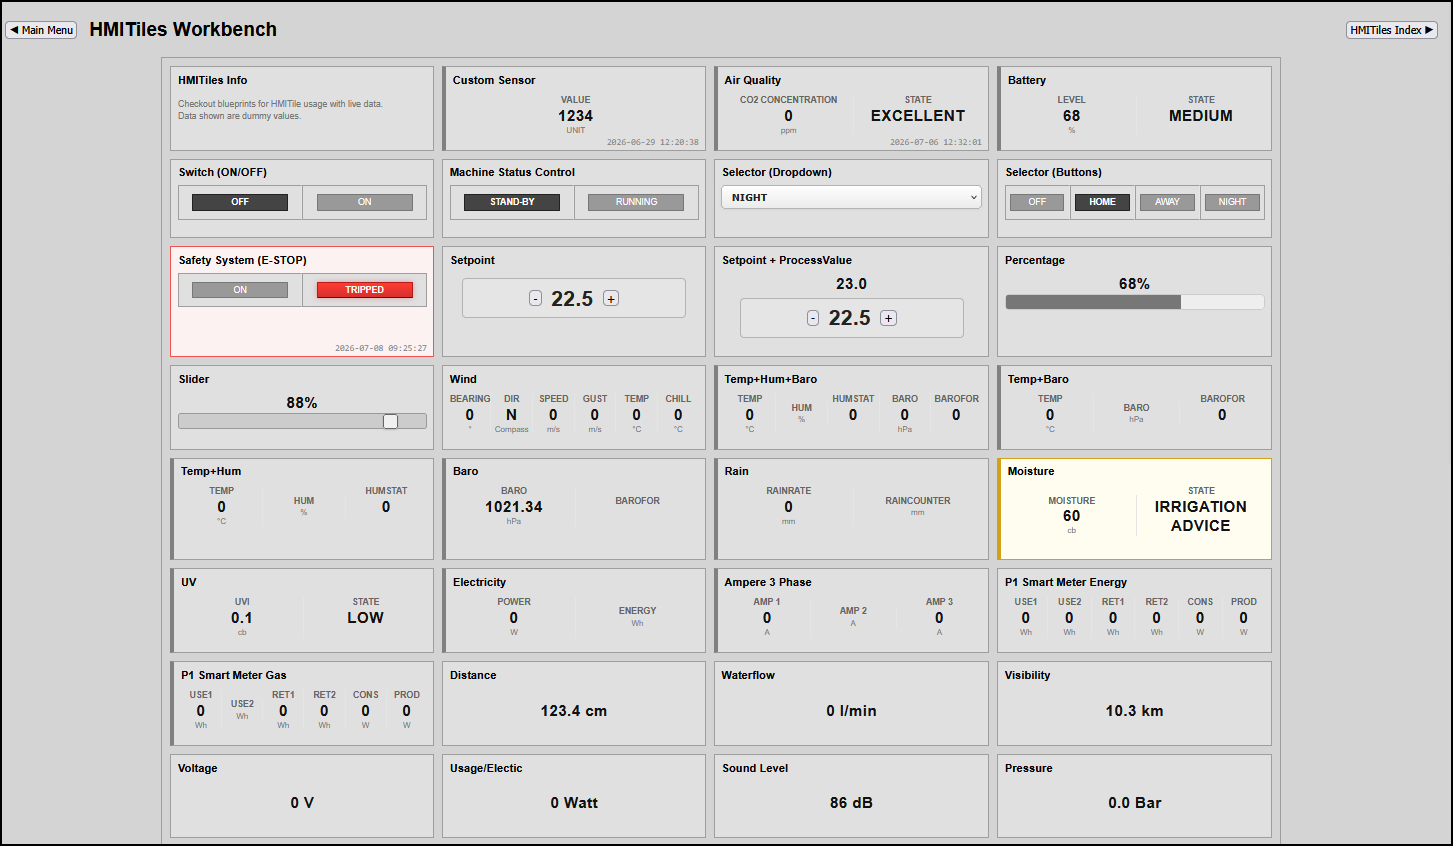
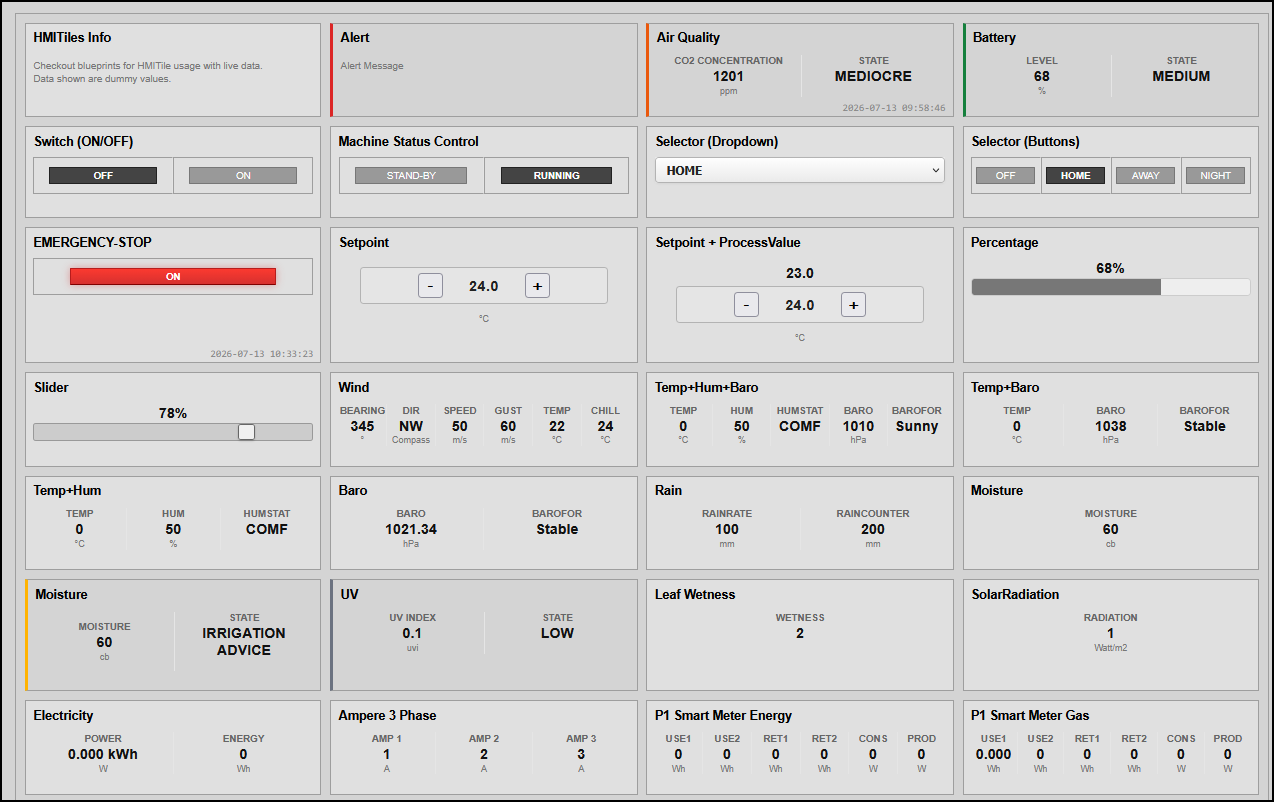
Update

diff --git a/CHANGELOG.md b/CHANGELOG.md
@@ -4,7 +4,7 @@ All notable changes to **HMITiles Custom Pages Framework for Domoticz** - are do
 
 ---
 
-## 20260708 - (2.0.0-BETA)
+## 20260713 - (2.0.0-BETA)
 Major framework rewrite. Work in progress. Pre-release staging phase.
 
 ### Summary
@@ -27,8 +27,8 @@ This release eliminates inline script blocks from layout files, centralizes even
 * **Local Offline Fonts**: Integrated a crisp, high-contrast, squared typography layer using locally-hosted assets. The entire UI is now 100% self-contained and immune to internet outages.
 
 #### 3. Simplified Threshold & Alarm Engine
-* **Declarative Threat Matrix**: Wiped out complex conditional checking scripts by introducing two lightweight HTML configuration mappings: `data-state-map` and `data-alarm-map`. 
-* **Universal Severity Evaluator**: Multi-tier alarm state escalations (upward spikes or downward drops, e.g., low battery levels) are handled uniformly inside a single engine tracking pass.
+* **Declarative Threat Matrix**: Wiped out complex conditional checking scripts by introducing two lightweight HTML configuration mappings: `data-state-map` and `data-alarm-direction`. 
+* **Universal Severity Evaluator**: Multi-tier alarm state escalations (upward spikes or downward drops, e.g., low battery levels) are handled uniformly inside a single engine tracking pass based on Alert device 5 alarm levels.
 * **Multi-Value Multi-Target Indexing**: Upgraded the evaluator to dynamically target distinct data track columns within arrays. The parser now uses leading index digits to isolate checks (e.g., assessing a battery's state of charge directly inside a composite charging payload string).
 * **Defensive Edge-Clamping Logic**: Fixed range-boundary logic loops by initializing state values with an explicit boundary fallback ceiling. This halts code lockouts and prevents `CONDITION: 0` glitches when sensor data surpasses maximum threshold parameters.
 
@@ -48,6 +48,11 @@ This release eliminates inline script blocks from layout files, centralizes even
 ---
 
 ![Solar-Dashboard](solardashboard.png)
+(real data)
+
+---
+
+![Theme-Dark Experimental](theme-dark.png)
 (real data)
 
 ---